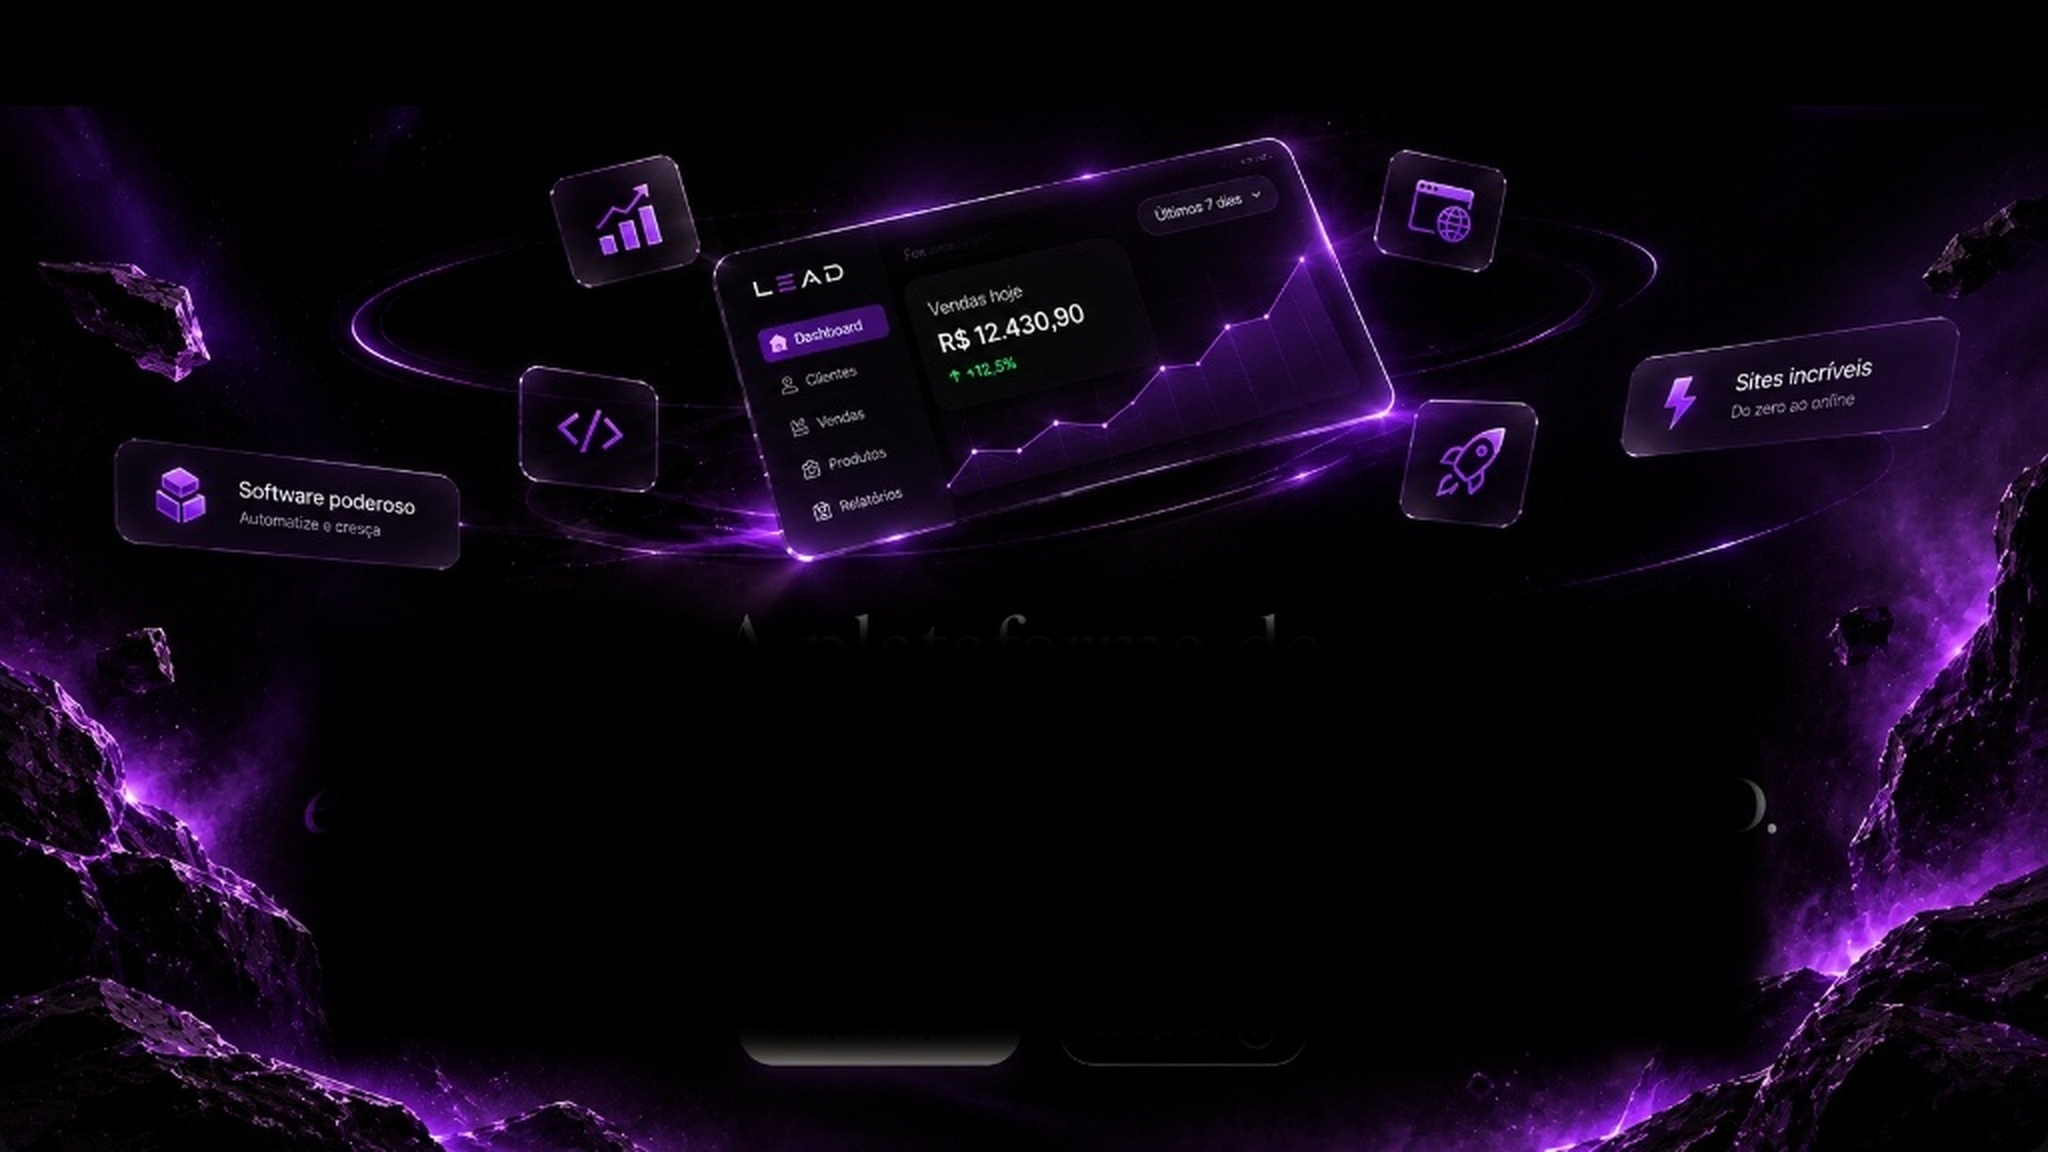
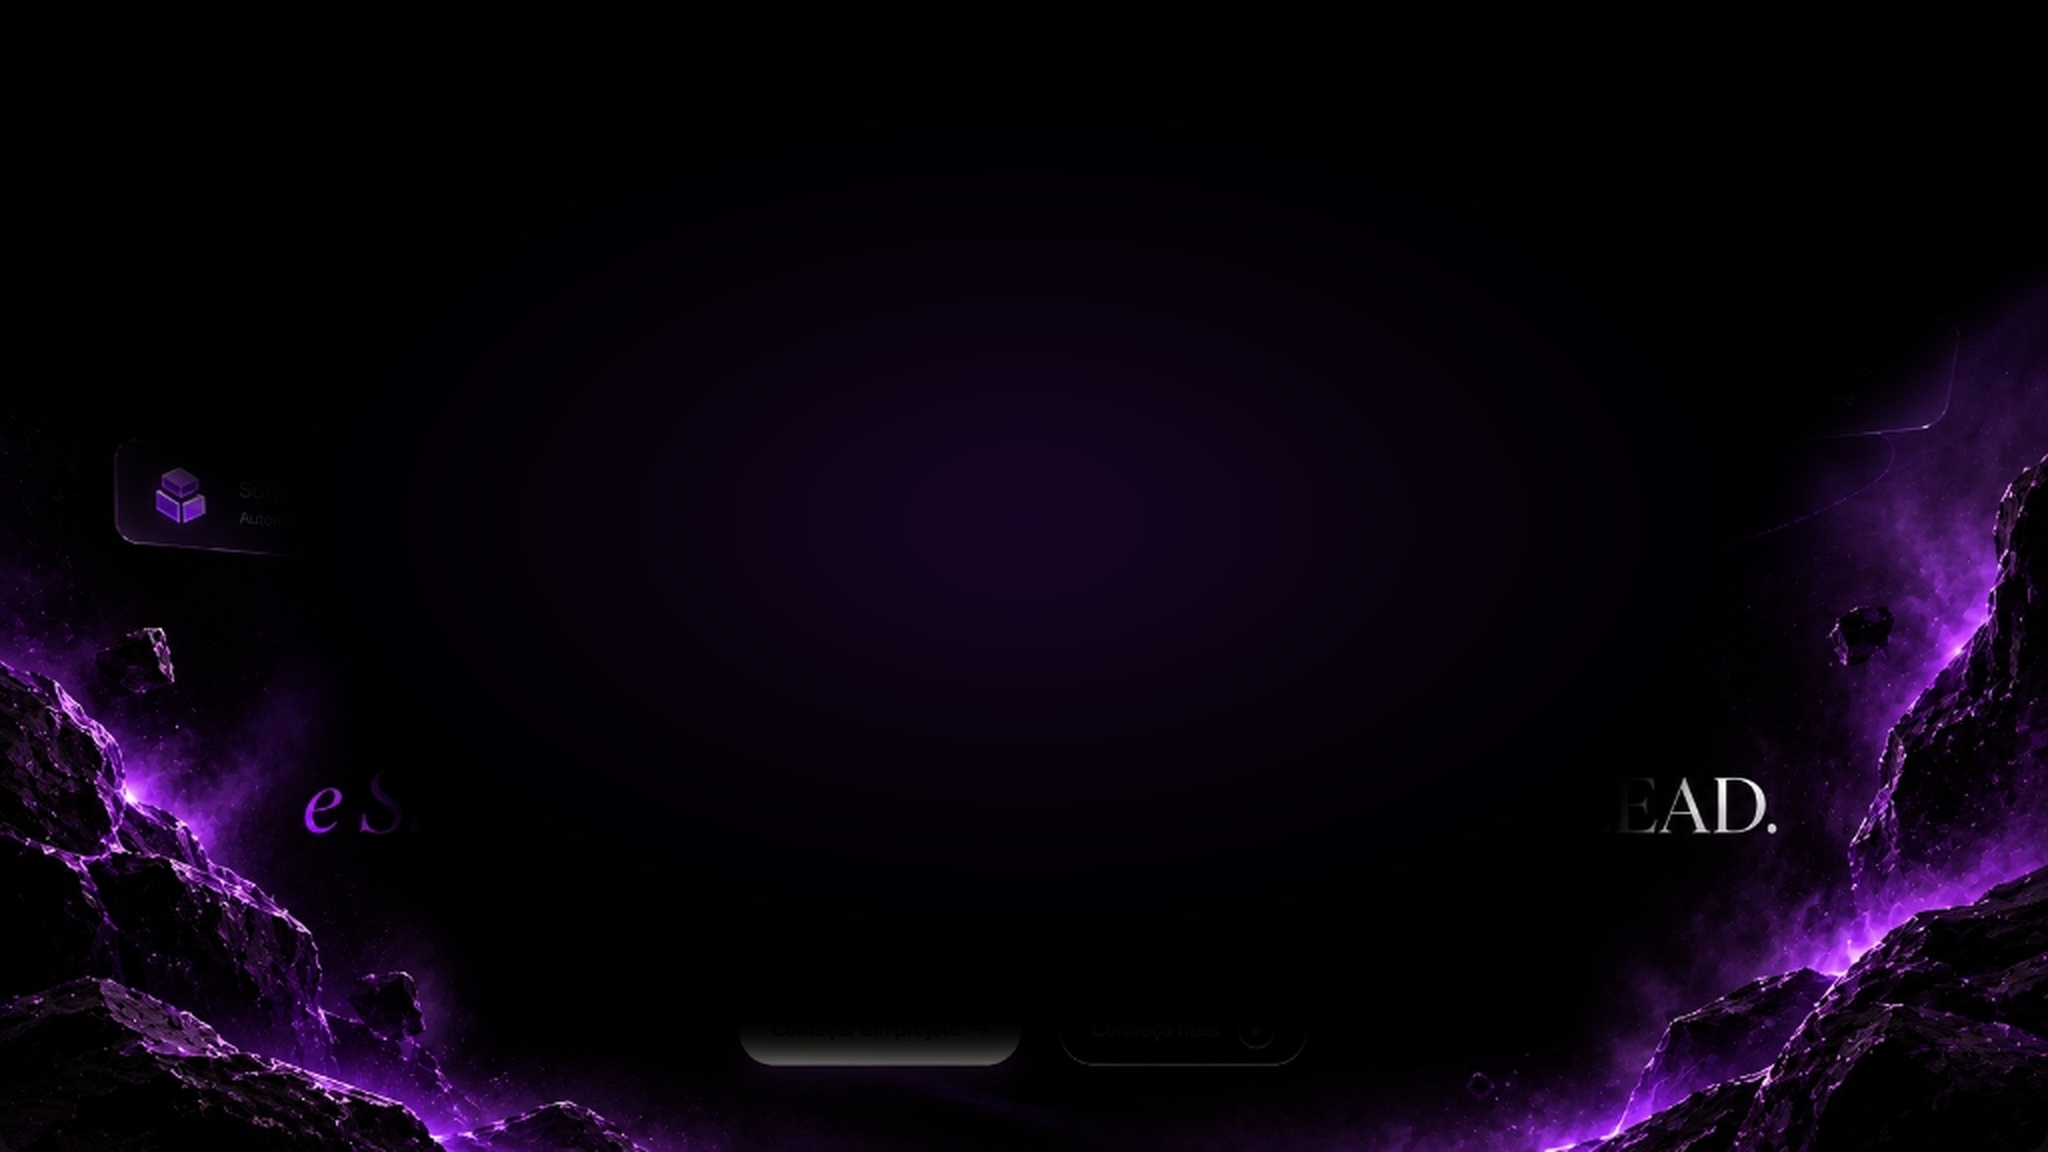
Remover imagens de sistema e centralizar texto principal no topo

diff --git a/style.css b/style.css
@@ -4403,9 +4403,9 @@ body.light-theme .form-group textarea {
     display: flex;
     flex-direction: column;
     align-items: center;
-    justify-content: flex-end;
-    padding-top: 100px;
-    padding-bottom: 50px;
+    justify-content: center;
+    padding-top: 130px;
+    padding-bottom: 70px;
     position: relative;
     overflow: hidden;
     box-shadow: none;
@@ -4418,48 +4418,10 @@ body.light-theme .form-group textarea {
     bottom: 0;
     left: 0;
     width: 100%;
-    height: 80px;
+    height: 90px;
     background: linear-gradient(to top, rgba(0, 0, 0, 0.95) 0%, transparent 100%);
     pointer-events: none;
     z-index: 1;
-}
-
-/* Mobile 3D visual wrapper */
-.hero-mobile-visual-wrap {
-    display: none;
-    width: 100%;
-    max-width: 680px;
-    margin: 0 auto 15px;
-    padding: 0 16px;
-    position: relative;
-    z-index: 2;
-    animation: heroFloating 5s ease-in-out infinite;
-}
-
-.hero-tablet-img {
-    width: 100%;
-    height: auto;
-    display: block;
-    filter: drop-shadow(0 10px 25px rgba(168, 85, 247, 0.35));
-}
-
-@keyframes heroFloating {
-    0%, 100% {
-        transform: translateY(0);
-    }
-    50% {
-        transform: translateY(-8px);
-    }
-}
-
-/* Desktop spacer leaving space for the 3D visual in the background */
-.hero-visual-spacer {
-    display: block;
-    width: 100%;
-    height: 42vh;
-    min-height: 270px;
-    max-height: 420px;
-    pointer-events: none;
 }
 
 .hero-cosmic-container {
@@ -4611,20 +4573,12 @@ body.light-theme .form-group textarea {
     .hero-modern.hero-cosmic-section {
         background-image: radial-gradient(circle at center top, rgba(88, 28, 135, 0.3) 0%, #000000 70%);
         min-height: auto;
-        padding-top: 110px;
-        padding-bottom: 60px;
-    }
-    
-    .hero-mobile-visual-wrap {
-        display: block;
-    }
-    
-    .hero-visual-spacer {
-        display: none;
+        padding-top: 120px;
+        padding-bottom: 70px;
     }
 
     .hero-cosmic-title {
-        font-size: 2.2rem;
+        font-size: 2.3rem;
         line-height: 1.25;
     }
 }

diff --git a/index.html b/index.html
@@ -11,7 +11,7 @@
     <link rel="preconnect" href="https://fonts.gstatic.com" crossorigin>
     <link href="https://fonts.googleapis.com/css2?family=Inter:wght@300;400;500;600;700&family=Playfair+Display:ital,wght@0,400;0,500;0,600;0,700;1,400;1,500;1,600;1,700&display=swap" rel="stylesheet">
     <!-- Custom CSS -->
-    <link rel="stylesheet" href="style.css?v=2700">
+    <link rel="stylesheet" href="style.css?v=2800">
     <!-- GSAP Animation Engine -->
     <script src="https://cdnjs.cloudflare.com/ajax/libs/gsap/3.12.5/gsap.min.js"></script>
     <style>
@@ -135,14 +135,6 @@
     <!-- MAIN CONTENT -->
         <!-- HERO SECTION -->
         <section class="hero-modern hero-cosmic-section dark-mode-hero" id="home">
-            <!-- Mobile 3D Tablet visual (visible on mobile / tablet) -->
-            <div class="hero-mobile-visual-wrap">
-                <img src="images/hero-tablet-visual.png" alt="LEAD Plataforma de Desenvolvimento" class="hero-tablet-img">
-            </div>
-
-            <!-- Desktop Visual Spacer (aligns text perfectly below the 3D visual in background) -->
-            <div class="hero-visual-spacer"></div>
-
             <div class="hero-cosmic-container">
                 <div class="hero-cosmic-content">
                     <h1 class="hero-cosmic-title">
